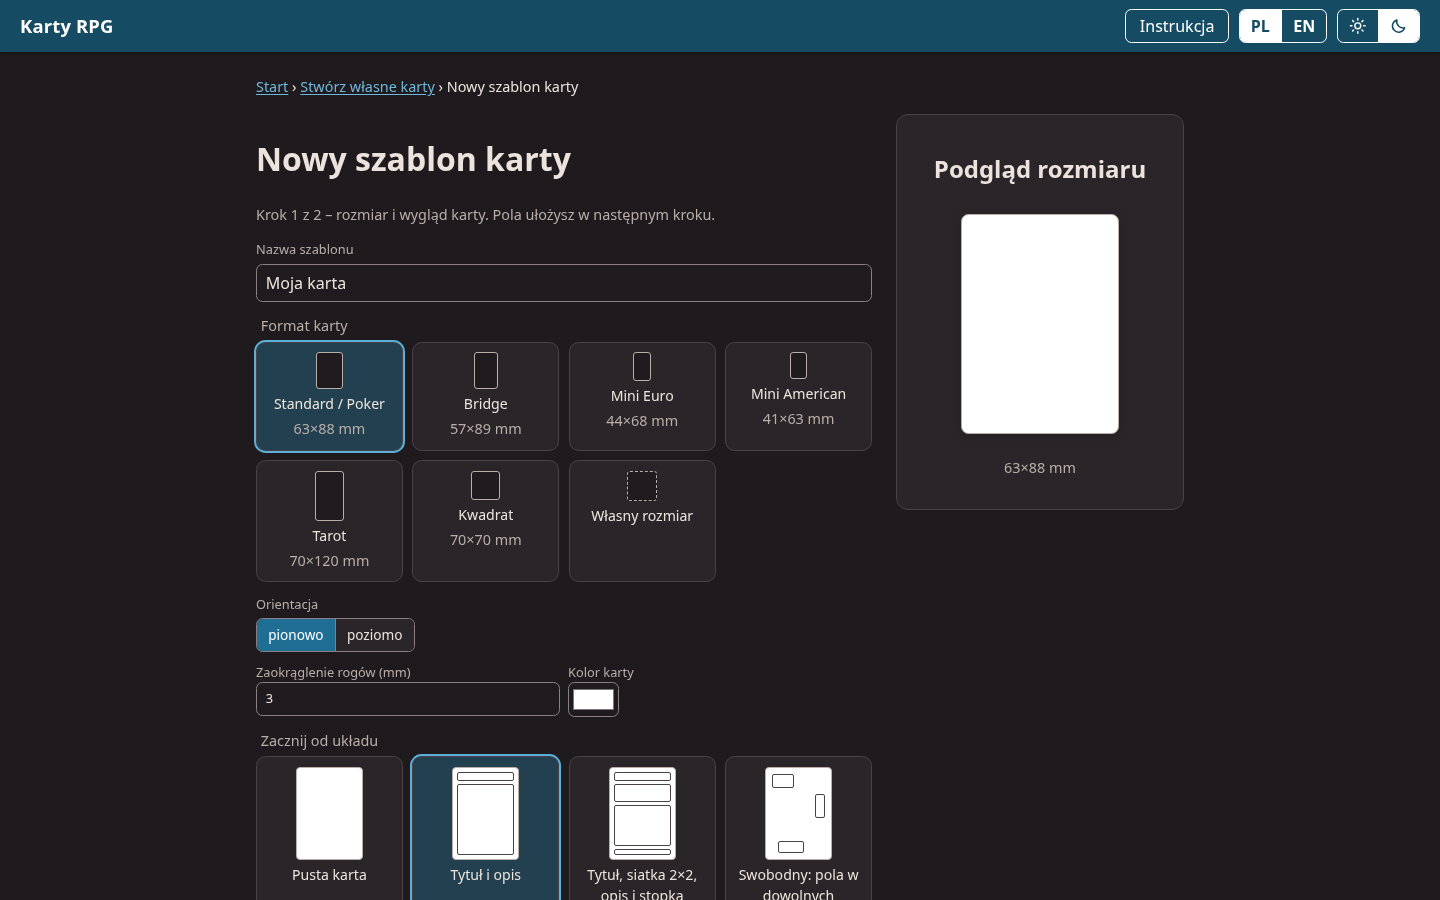
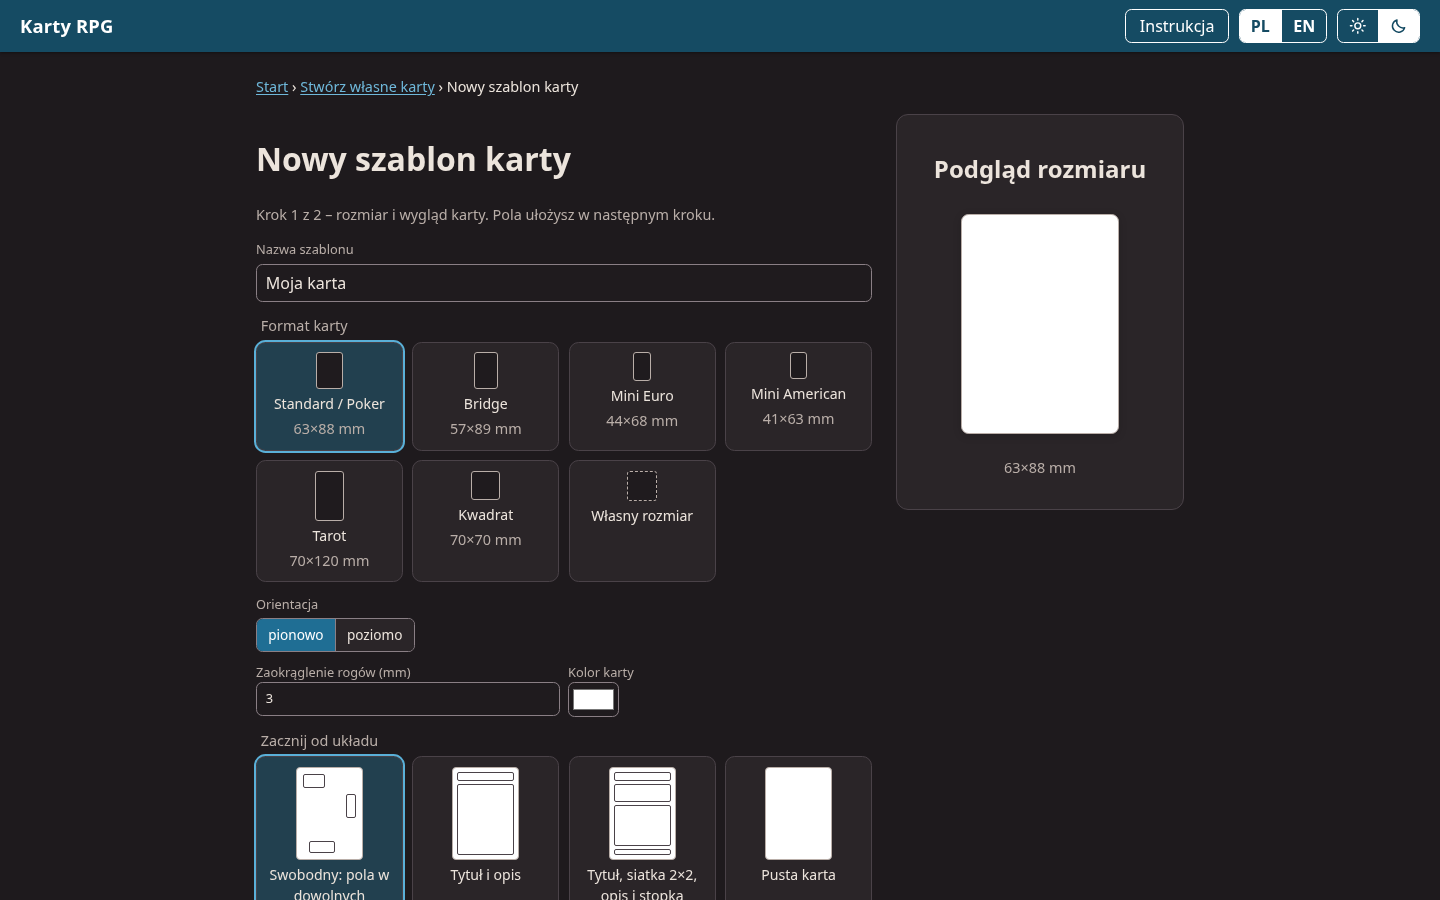
Kreator: domyślnie wybieraj układ swobodny

Changed region(s): [[0.1562, 0.84, 0.4062, 1.0], [0.5, 0.9644, 0.5938, 1.0]]

diff --git a/src/dane/szablon.test.ts b/src/dane/szablon.test.ts
@@ -23,6 +23,7 @@ import {
   kluczZNazwy,
   nazwaKarty,
   nowySzablon,
+  UKLADY_STARTOWE,
   nowyWezel,
   opakuj,
   przeniesWezel,
@@ -223,6 +224,21 @@ describe('drzewo', () => {
 });
 
 describe('nowy szablon', () => {
+  it('pokazuje układ swobodny pierwszy i zachowuje korzenie obu skrajnych układów', () => {
+    expect(UKLADY_STARTOWE).toEqual([
+      'swobodny',
+      'tytul-opis',
+      'tytul-siatka-opis-stopka',
+      'pusty',
+    ]);
+    const opcje = { nazwa: 'Karta', szer: 63, wys: 88, promien: 0, tlo: '#ffffff' };
+    expect(nowySzablon('s', { ...opcje, uklad: 'swobodny' }, NAZWY).korzen.typ).toBe('swobodny');
+    expect(nowySzablon('p', { ...opcje, uklad: 'pusty' }, NAZWY).korzen).toMatchObject({
+      typ: 'kolumna',
+      dzieci: [],
+    });
+  });
+
   it('układy startowe: neutralne nazwy, siatka 2×2 etykieta/wartość, stopka', () => {
     const s: Szablon = nowySzablon(
       's',

diff --git a/testy/szablon.spec.ts b/testy/szablon.spec.ts
@@ -15,6 +15,21 @@ async function dodaj(page: Page, rodzaj: string) {
   await page.getByRole('menuitem', { name: rodzaj, exact: true }).click();
 }
 
+test('kreator domyślnie tworzy kartę swobodną, a pusty układ jest ostatni', async ({ page }) => {
+  await page.goto('./#/wlasne/nowy');
+  await page.getByLabel('Nazwa szablonu').fill('Karta w układzie swobodnym');
+  const opcje = page.locator('input[name="uklad"]');
+  expect(await opcje.evaluateAll((pola: HTMLInputElement[]) => pola.map((p) => p.value))).toEqual([
+    'swobodny',
+    'tytul-opis',
+    'tytul-siatka-opis-stopka',
+    'pusty',
+  ]);
+  await expect(opcje.first()).toBeChecked();
+  await page.getByRole('button', { name: /Dalej: układ pól/ }).click();
+  await expect(element(page, /^Karta – Swobodny/)).toBeVisible();
+});
+
 test('kreator → edytor: drzewo, dodawanie, przesuwanie, podgląd; Rób karty i powrót', async ({
   page,
 }) => {

diff --git a/src/ui/szablon/Kreator.tsx b/src/ui/szablon/Kreator.tsx
@@ -31,7 +31,7 @@ export function Kreator({
   const [pozioma, ustawPozioma] = useState(false);
   const [promien, ustawPromien] = useState(3);
   const [tlo, ustawTlo] = useState('#ffffff');
-  const [uklad, ustawUklad] = useState<UkladStartowy>('tytul-opis');
+  const [uklad, ustawUklad] = useState<UkladStartowy>('swobodny');
   const [tworze, ustawTworze] = useState(false);
   const [blad, ustawBlad] = useState<string>();
 

diff --git a/src/dane/szablon.ts b/src/dane/szablon.ts
@@ -704,10 +704,10 @@ export const FORMATY_KART = [
 
 /** Neutralne układy startowe kreatora (P9) – ogólne punkty wyjścia, nie szablony gier. */
 export const UKLADY_STARTOWE = [
-  'pusty',
+  'swobodny',
   'tytul-opis',
   'tytul-siatka-opis-stopka',
-  'swobodny',
+  'pusty',
 ] as const;
 export type UkladStartowy = (typeof UKLADY_STARTOWE)[number];
 

diff --git a/docs/plan-M3.md b/docs/plan-M3.md
@@ -98,22 +98,23 @@ M4 obejmuje między innymi rewersy i druk dwustronny zgodnie ze specyfikacją. U
 
 ## 9. Decyzje podjęte bez konsultacji
 
-| #    | Etap | Sprawa                | Decyzja                                                                                                                                                                                                                                 |
-| ---- | ---- | --------------------- | --------------------------------------------------------------------------------------------------------------------------------------------------------------------------------------------------------------------------------------- |
-| B230 | Plan | Kolejność             | M3 zaczynamy od zestawów stylów przewidzianych w planie M2b. Grupowanie, skład i zmiany geometrii są osobnymi etapami.                                                                                                                  |
-| B231 | Plan | Zapis zestawu         | Użycie zestawu kopiuje ustawienia z wbudowanego katalogu bez referencji do zestawu w schemacie projektu. Brak separatora pozostawia drzewo bez zmian.                                                                                   |
-| B232 | Plan | Import danych         | Mapowanie i walidację pokazujemy przed zapisem. Błąd mapowanego wiersza blokuje zapis całej partii.                                                                                                                                     |
-| B233 | M3-1 | Wbudowane zestawy     | Leśny łączy pnącze, liść i gwiazdę, a Runiczny runy, okucie, łańcuch i romb. Obydwa używają istniejących elementów katalogu.                                                                                                            |
-| B234 | M3-1 | Zakres i historia     | Jedna operacja zmienia ramkę karty i istniejące separatory we wszystkich wariantach. Zachowujemy długość i kierunek separatorów, geometrię ramki i jej ustawienia linii. Ponowne użycie identycznego zestawu nie dodaje kroku historii. |
-| B235 | M3-2 | Wspólny styl          | Grupa współdzieli główny styl typograficzny pola w obrębie szablonu. Etykieta, wygląd i geometria pozostają indywidualne. Odłączenie, usunięcie grupy i wklejenie stylu zapisują styl lokalny.                                          |
-| B236 | M3-2 | Reguły kolorów        | Klucz pochodzi z tekstowych danych lub parametru. Wartości porównujemy z rozróżnieniem wielkości liter po obcięciu białych znaków. Pierwszy pasujący wiersz wygrywa, a pustą albo nieznaną wartość obsługuje jawny kolor domyślny.      |
-| B237 | M3-2 | Schemat 18            | Migracje projektu i paczki v17 zachowują ich pola. Grupy mają lokalne ID i przenoszą użyte czcionki. Brakująca grupa używa stylu pola i rezerwuje swój identyfikator, żeby późniejsza edycja nie dołączyła pola przez przypadek.        |
-| B238 | M3-3 | Włączanie notacji     | Schemat 19 dodaje dwa niezależne przełączniki pola tekstowego. Starsze pola zachowują dotychczasową interpretację tekstu.                                                                                                               |
-| B239 | M3-3 | Indeksy listy         | Zachowujemy podane liczby. Znacznik zaczyna akapit, a pierwszy i zawinięte wiersze danej pozycji mają wspólne wyrównanie. Etykieta w tej samej linii zajmuje początek akapitu.                                                          |
-| B240 | M3-3 | Ikony w tekście       | Kody `:star:` i `:scissors:` używają istniejących konturów. Nieznane są dosłowne, a lewy ukośnik pozwala zacytować znany kod. Pomiar uwzględnia pełny kwadrat ikony.                                                                    |
-| B241 | M3-4 | Pole kontynuacji      | W aktywnym układzie wybieramy pierwsze włączone pole w kolejności drzewa. Podział odbywa się po słowach, zachowuje style i ikony, a niepodzielny fragment lub limit 64 części pozostawia oryginalne ostrzeżenie.                        |
-| B242 | M3-4 | Karty pochodne        | Kontynuacje są scenami tego samego rekordu. Zachowują tytuł i dodają lokalizowany, numerowany dopisek. Przypięcia i normalizacja dotyczą oryginałów. Każda sztuka na wydruku zawiera komplet części.                                    |
-| B243 | M3-4 | Schemat 20 i pliki    | Ustawienie kontynuacji jest opcjonalne. Karty eksportowane osobno mają plik na każdą część unikalnego rekordu, zgodnie z dotychczasowym pominięciem powtórzeń nakładu.                                                                  |
-| B244 | M3-5 | Szkic i krawędź       | Siła, ziarnistość i ziarno dają powtarzalny kontur. Parametry ramki i separatora dotyczą kreski, a postrzępienie karty i panelu przycina ich tło oraz teksturę. Kontur cięcia arkusza pozostaje prostokątny.                            |
-| B245 | M3-5 | Tekstury i schemat 21 | Pole tekstury wskazuje lokalny obraz kadrowany do obszaru tła. Paczka zabiera użyte obrazy, weryfikuje odniesienia i przepisuje identyfikatory przy kolizji. Spad pozostaje częścią planowanego trybu drukarni w M4.                    |
-| B246 | M3-5 | Motyw po łuku         | Kafelki podążają stycznie do zaokrąglonego obrysu w granicach ramki. Ustawienie narożników pozostaje w szablonie i działa ponownie po przełączeniu na prosty motyw.                                                                     |
+| #    | Etap    | Sprawa                | Decyzja                                                                                                                                                                                                                                 |
+| ---- | ------- | --------------------- | --------------------------------------------------------------------------------------------------------------------------------------------------------------------------------------------------------------------------------------- |
+| B230 | Plan    | Kolejność             | M3 zaczynamy od zestawów stylów przewidzianych w planie M2b. Grupowanie, skład i zmiany geometrii są osobnymi etapami.                                                                                                                  |
+| B231 | Plan    | Zapis zestawu         | Użycie zestawu kopiuje ustawienia z wbudowanego katalogu bez referencji do zestawu w schemacie projektu. Brak separatora pozostawia drzewo bez zmian.                                                                                   |
+| B232 | Plan    | Import danych         | Mapowanie i walidację pokazujemy przed zapisem. Błąd mapowanego wiersza blokuje zapis całej partii.                                                                                                                                     |
+| B233 | M3-1    | Wbudowane zestawy     | Leśny łączy pnącze, liść i gwiazdę, a Runiczny runy, okucie, łańcuch i romb. Obydwa używają istniejących elementów katalogu.                                                                                                            |
+| B234 | M3-1    | Zakres i historia     | Jedna operacja zmienia ramkę karty i istniejące separatory we wszystkich wariantach. Zachowujemy długość i kierunek separatorów, geometrię ramki i jej ustawienia linii. Ponowne użycie identycznego zestawu nie dodaje kroku historii. |
+| B235 | M3-2    | Wspólny styl          | Grupa współdzieli główny styl typograficzny pola w obrębie szablonu. Etykieta, wygląd i geometria pozostają indywidualne. Odłączenie, usunięcie grupy i wklejenie stylu zapisują styl lokalny.                                          |
+| B236 | M3-2    | Reguły kolorów        | Klucz pochodzi z tekstowych danych lub parametru. Wartości porównujemy z rozróżnieniem wielkości liter po obcięciu białych znaków. Pierwszy pasujący wiersz wygrywa, a pustą albo nieznaną wartość obsługuje jawny kolor domyślny.      |
+| B237 | M3-2    | Schemat 18            | Migracje projektu i paczki v17 zachowują ich pola. Grupy mają lokalne ID i przenoszą użyte czcionki. Brakująca grupa używa stylu pola i rezerwuje swój identyfikator, żeby późniejsza edycja nie dołączyła pola przez przypadek.        |
+| B238 | M3-3    | Włączanie notacji     | Schemat 19 dodaje dwa niezależne przełączniki pola tekstowego. Starsze pola zachowują dotychczasową interpretację tekstu.                                                                                                               |
+| B239 | M3-3    | Indeksy listy         | Zachowujemy podane liczby. Znacznik zaczyna akapit, a pierwszy i zawinięte wiersze danej pozycji mają wspólne wyrównanie. Etykieta w tej samej linii zajmuje początek akapitu.                                                          |
+| B240 | M3-3    | Ikony w tekście       | Kody `:star:` i `:scissors:` używają istniejących konturów. Nieznane są dosłowne, a lewy ukośnik pozwala zacytować znany kod. Pomiar uwzględnia pełny kwadrat ikony.                                                                    |
+| B241 | M3-4    | Pole kontynuacji      | W aktywnym układzie wybieramy pierwsze włączone pole w kolejności drzewa. Podział odbywa się po słowach, zachowuje style i ikony, a niepodzielny fragment lub limit 64 części pozostawia oryginalne ostrzeżenie.                        |
+| B242 | M3-4    | Karty pochodne        | Kontynuacje są scenami tego samego rekordu. Zachowują tytuł i dodają lokalizowany, numerowany dopisek. Przypięcia i normalizacja dotyczą oryginałów. Każda sztuka na wydruku zawiera komplet części.                                    |
+| B243 | M3-4    | Schemat 20 i pliki    | Ustawienie kontynuacji jest opcjonalne. Karty eksportowane osobno mają plik na każdą część unikalnego rekordu, zgodnie z dotychczasowym pominięciem powtórzeń nakładu.                                                                  |
+| B244 | M3-5    | Szkic i krawędź       | Siła, ziarnistość i ziarno dają powtarzalny kontur. Parametry ramki i separatora dotyczą kreski, a postrzępienie karty i panelu przycina ich tło oraz teksturę. Kontur cięcia arkusza pozostaje prostokątny.                            |
+| B245 | M3-5    | Tekstury i schemat 21 | Pole tekstury wskazuje lokalny obraz kadrowany do obszaru tła. Paczka zabiera użyte obrazy, weryfikuje odniesienia i przepisuje identyfikatory przy kolizji. Spad pozostaje częścią planowanego trybu drukarni w M4.                    |
+| B246 | M3-5    | Motyw po łuku         | Kafelki podążają stycznie do zaokrąglonego obrysu w granicach ramki. Ustawienie narożników pozostaje w szablonie i działa ponownie po przełączeniu na prosty motyw.                                                                     |
+| B247 | Kreator | Domyślny układ        | „Swobodny” jest pierwszym i domyślnym wyborem w kreatorze. Dalej są „Tytuł i opis”, „Tytuł + siatka + opis + stopka” oraz „Pusta karta”. Zapisane projekty i przykładowe szablony zachowują swoje układy.                               |
